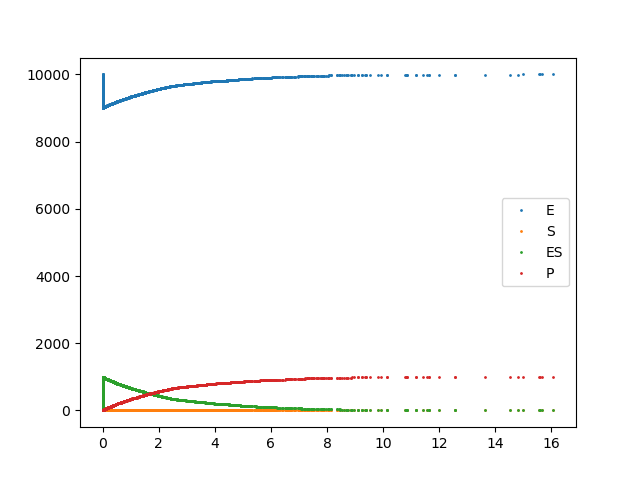
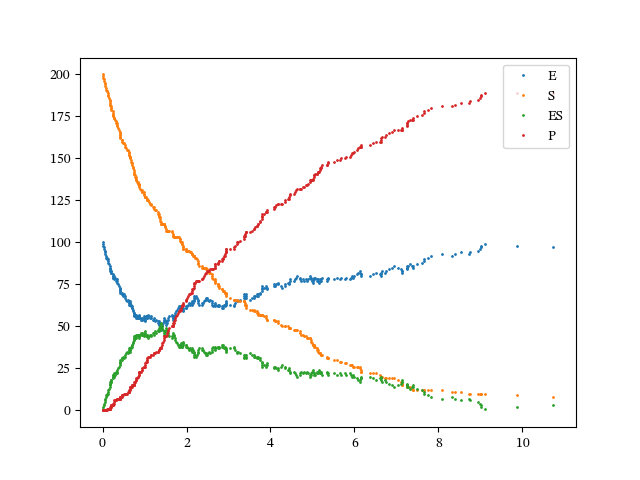
Gillespie algorithm for stochastic Michaelis-Menten system

diff --git a/project/gillespie.py b/project/gillespie.py
@@ -6,6 +6,7 @@ import numpy.random as rnd
 import numpy as np
 
 import matplotlib.pyplot as plt
+import matplotlib as mpl
 
 def reactions(mu, states):
     """Executes Michaelis-Menten chemical reactions.
@@ -45,9 +46,9 @@ def reactions(mu, states):
 
 if __name__ == '__main__':
     # Rates
-    c = np.array([.1, .1, .4])
+    c = np.array([5e-3, 1e-2, .8])
     # Initial counts
-    states = np.array([10000, 1000, 0, 0])
+    states = np.array([100, 200, 0, 0])
     saved_states = np.zeros((1, 4), dtype='int')
     saved_states[0, :] = states
     # Time
@@ -58,7 +59,7 @@ if __name__ == '__main__':
     #         (t, states[0], states[1], states[2], states[3]))
 
     # Endtime
-    tend = 20
+    tend = 10
 
     while ts[-1] < tend and (states[1] > 0 or states[2] > 0):
         # Calculate rate function values
@@ -89,6 +90,9 @@ if __name__ == '__main__':
 
     ts = np.array(ts)
 
+    mpl.rcParams['mathtext.fontset'] = 'stix'
+    mpl.rcParams['font.serif'] = 'STIX Two Text'
+    mpl.rcParams['font.family'] = 'serif'
     plt.plot(ts, saved_states, 'o', markersize=1)
     plt.legend(['E', 'S', 'ES', 'P'])
     plt.savefig('traj.png')
